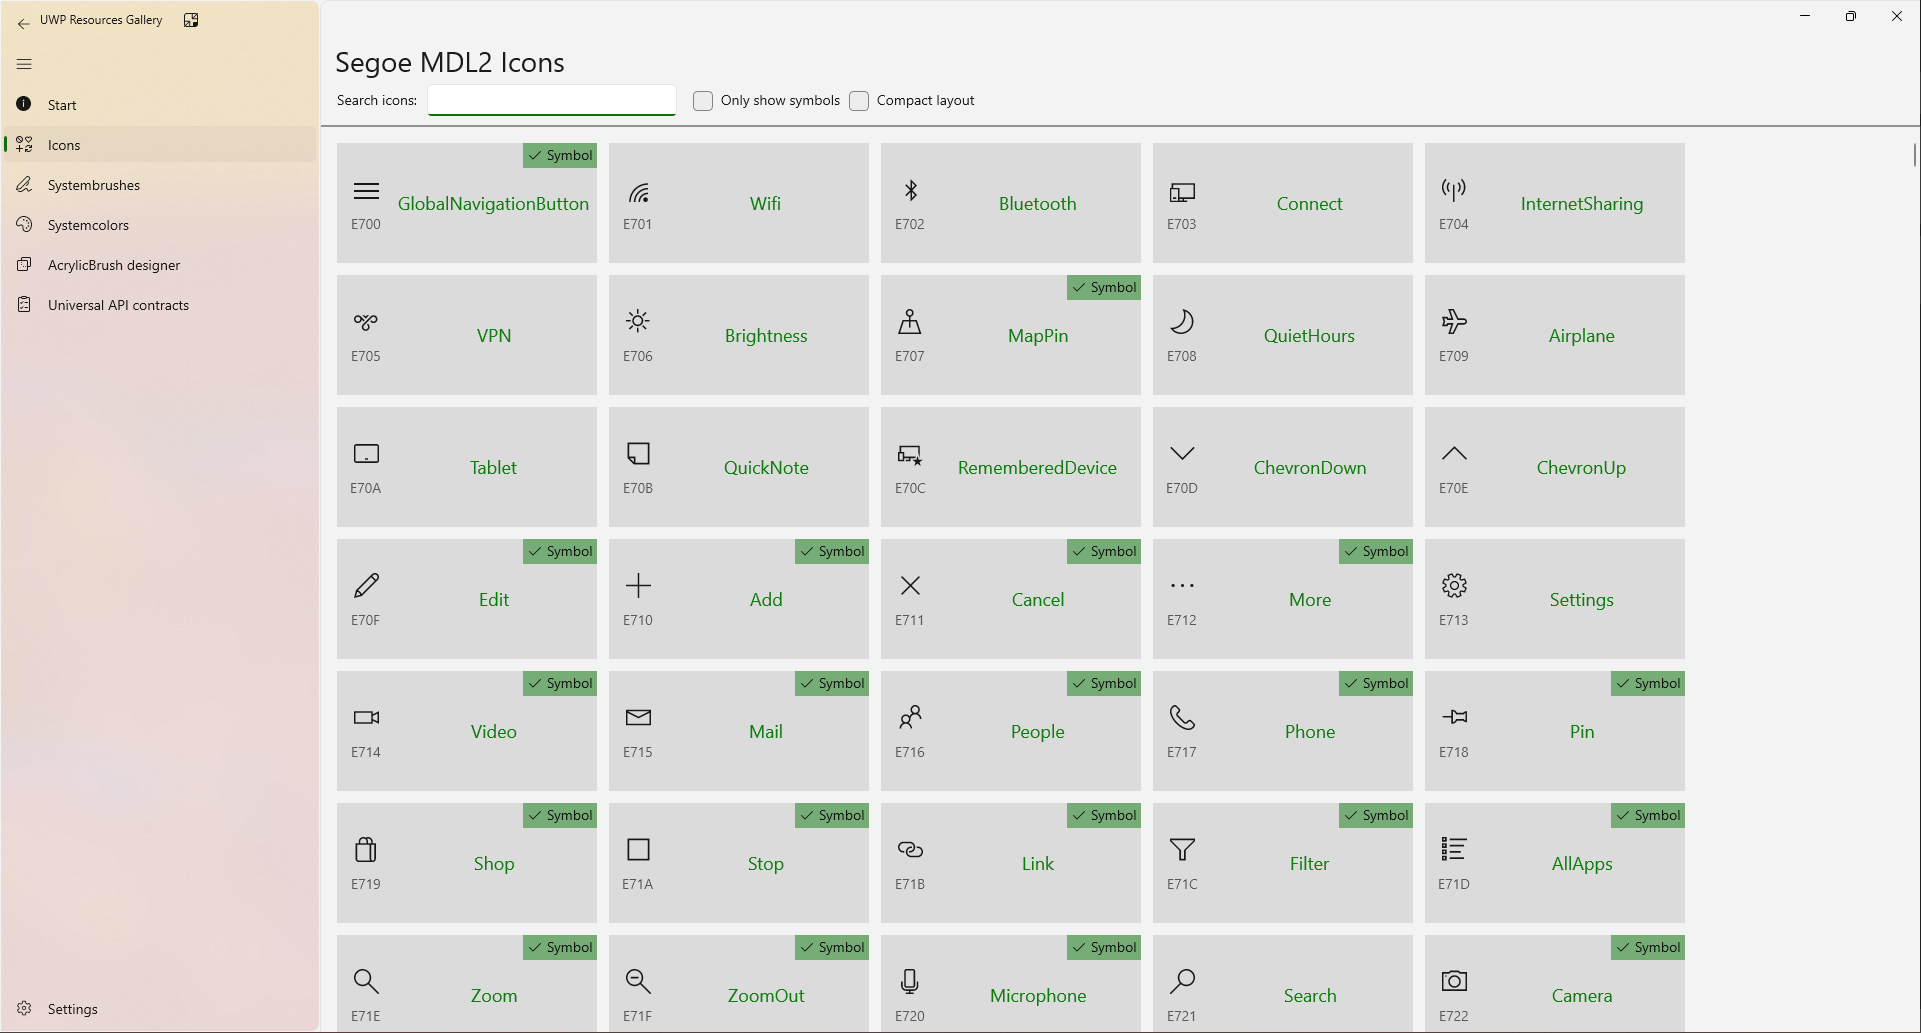
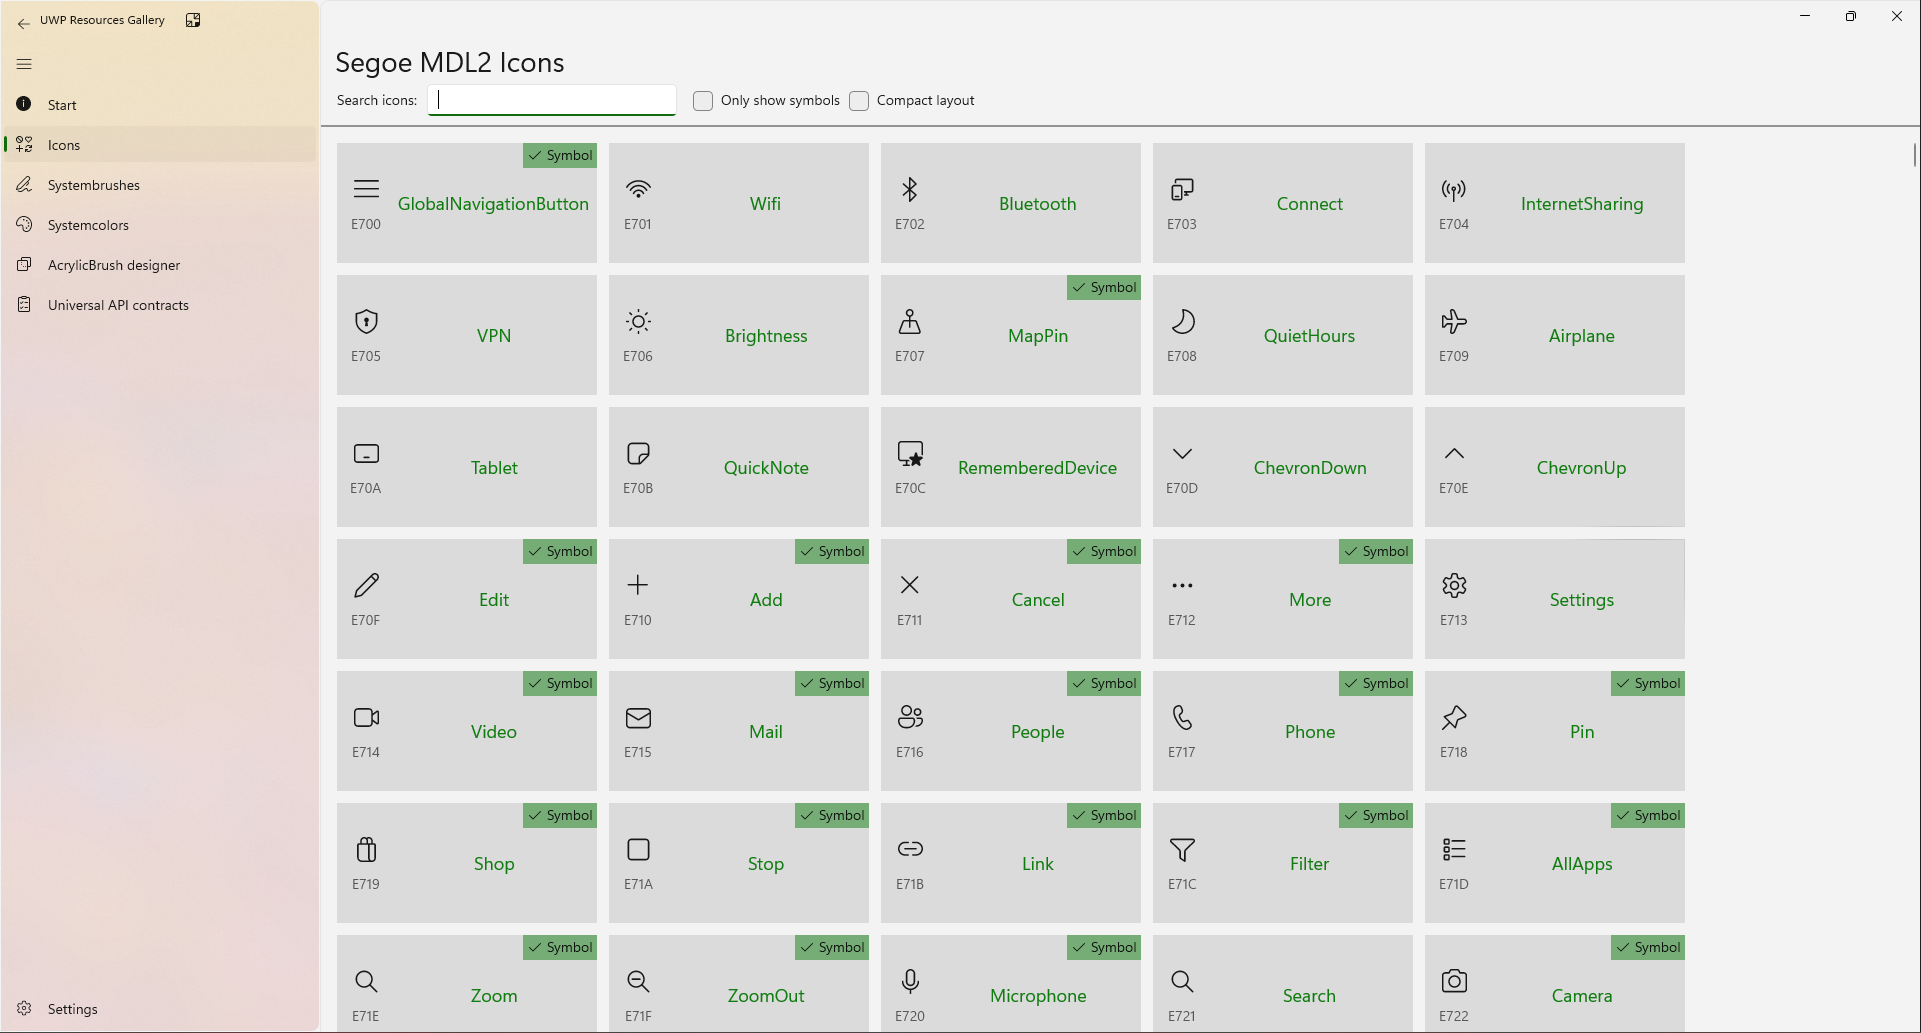
Fix colors and screenshots

diff --git a/src/UWPResourcesGallery/Pages/IconsListPage.xaml b/src/UWPResourcesGallery/Pages/IconsListPage.xaml
@@ -23,7 +23,7 @@
                                 <Style x:Name="StandardGridViewItemStyle" TargetType="GridViewItem">
                                     <Setter Property="Margin" Value="6"/>
                                     <Setter Property="MinHeight" Value="80" />
-                                    <Setter Property="Background" Value="{ThemeResource SystemControlPageBackgroundChromeMediumLowBrush}"/>
+                                    <Setter Property="Background" Value="{ThemeResource SystemControlBackgroundListLowBrush}"/>
                                 </Style>
                             </Setter.Value>
                         </Setter>

diff --git a/src/UWPResourcesGallery/Pages/SystemBrushesPage.xaml b/src/UWPResourcesGallery/Pages/SystemBrushesPage.xaml
@@ -65,7 +65,7 @@
                 <Style TargetType="GridViewItem">
                     <Setter Property="Margin" Value="6" />
                     <Setter Property="MinHeight" Value="80" />
-                    <Setter Property="Background" Value="{ThemeResource SystemControlPageBackgroundChromeMediumLowBrush}"/>
+                    <Setter Property="Background" Value="{ThemeResource SystemControlBackgroundListLowBrush}"/>
                 </Style>
             </GridView.Resources>
             <GridView.ItemTemplate>

diff --git a/src/UWPResourcesGallery/Pages/SystemColorsPage.xaml b/src/UWPResourcesGallery/Pages/SystemColorsPage.xaml
@@ -59,7 +59,7 @@
                 <Style TargetType="GridViewItem">
                     <Setter Property="Margin" Value="6"/>
                     <Setter Property="MinHeight" Value="80" />
-                    <Setter Property="Background" Value="{ThemeResource SystemControlPageBackgroundChromeMediumLowBrush}"/>
+                    <Setter Property="Background" Value="{ThemeResource SystemControlBackgroundListLowBrush}"/>
                 </Style>
             </GridView.Resources>
             <GridView.ItemTemplate>
